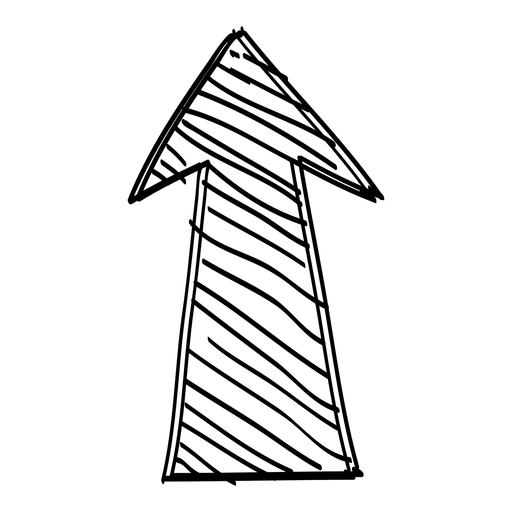
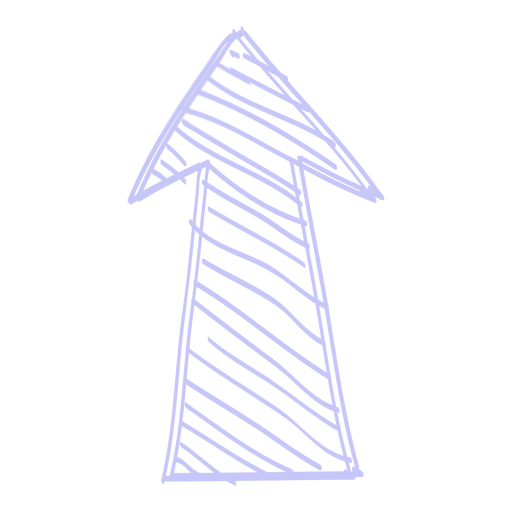
Upgraded image's size and position
Changed arrow's color to make it more visible

Cosmetic background image correction.

Changed region(s): [[0.25, 0.0312, 0.75, 0.9688]]

diff --git a/src/components/card.js b/src/components/card.js
@@ -66,7 +66,8 @@ class ProjectCard extends Component {
                 color: "white",
                 height: "15em",
                 background: `url(${this.props.url}) center / contain `,
-
+                backgroundPositionY: "-10px",
+                backgroundSize: "55%",
                 borderRadius: "10px",
                 justifyContent: "center",
               }}
